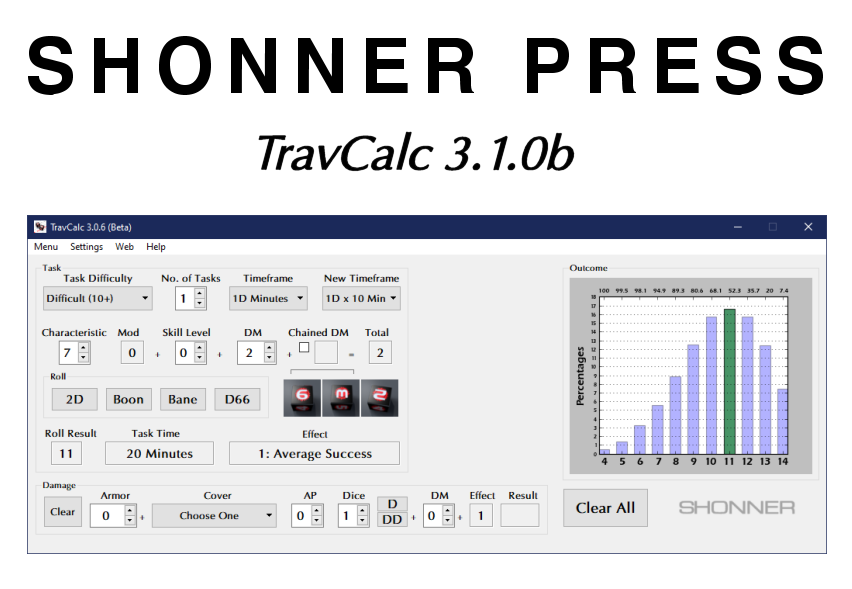
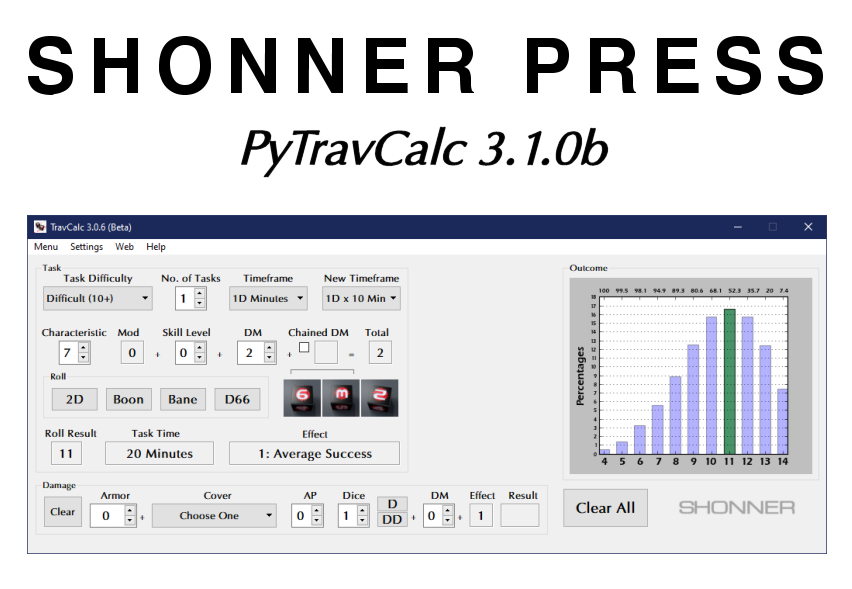
software title

Changed region(s): [[0.2746, 0.2139, 0.7324, 0.3056]]

diff --git a/README.rst b/README.rst
@@ -10,7 +10,7 @@
 
 
 
-**TravCalc 3.1.0b**
+**PyTravCalc 3.1.0b**
 ===================
 
 .. figure:: images/pytravcalc_manual_cover_art.png
